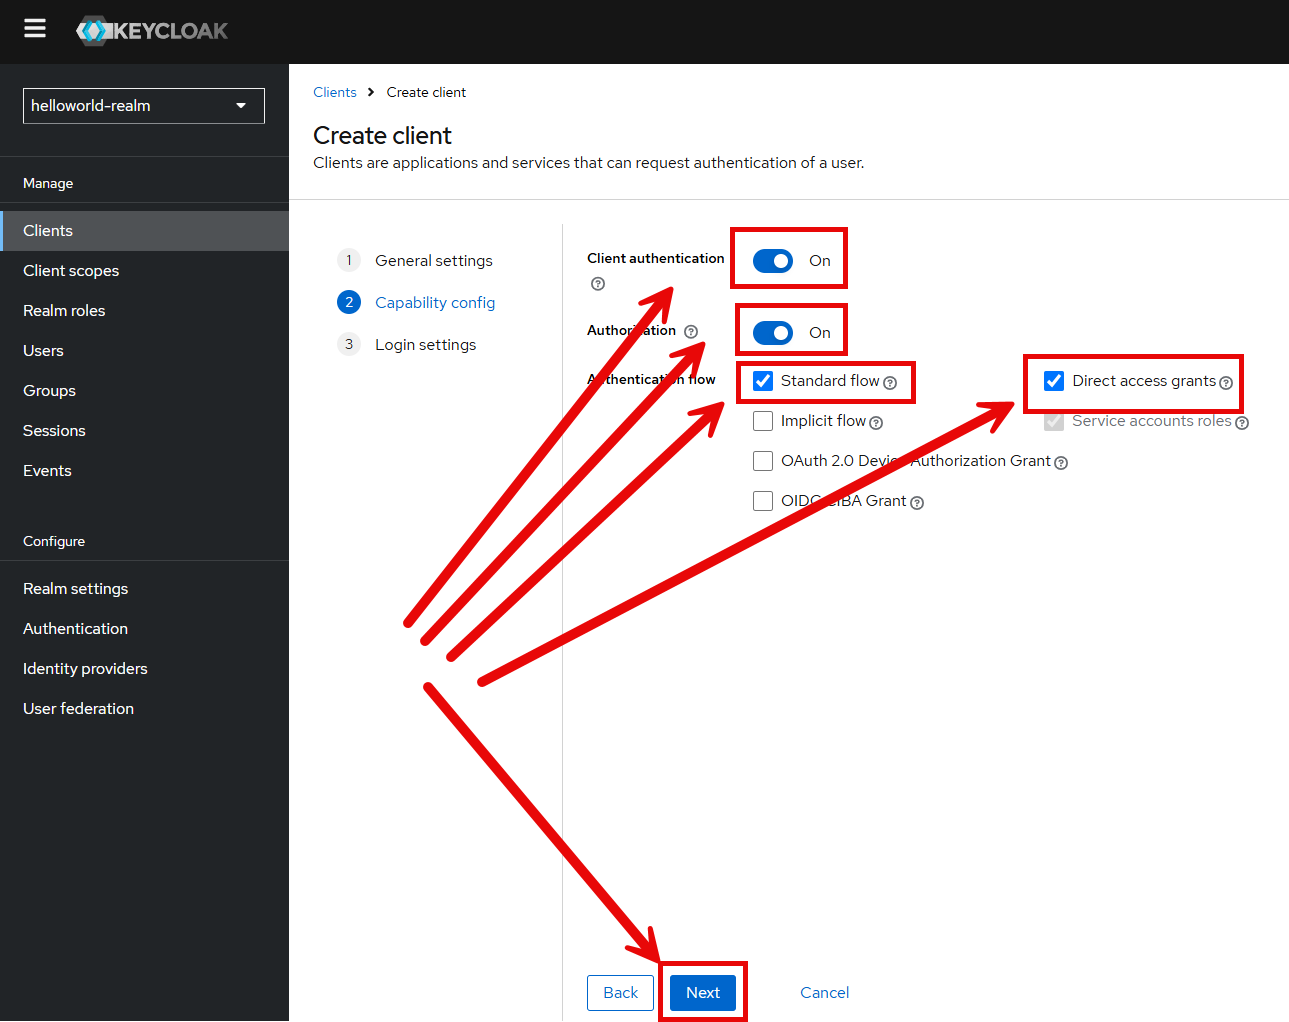
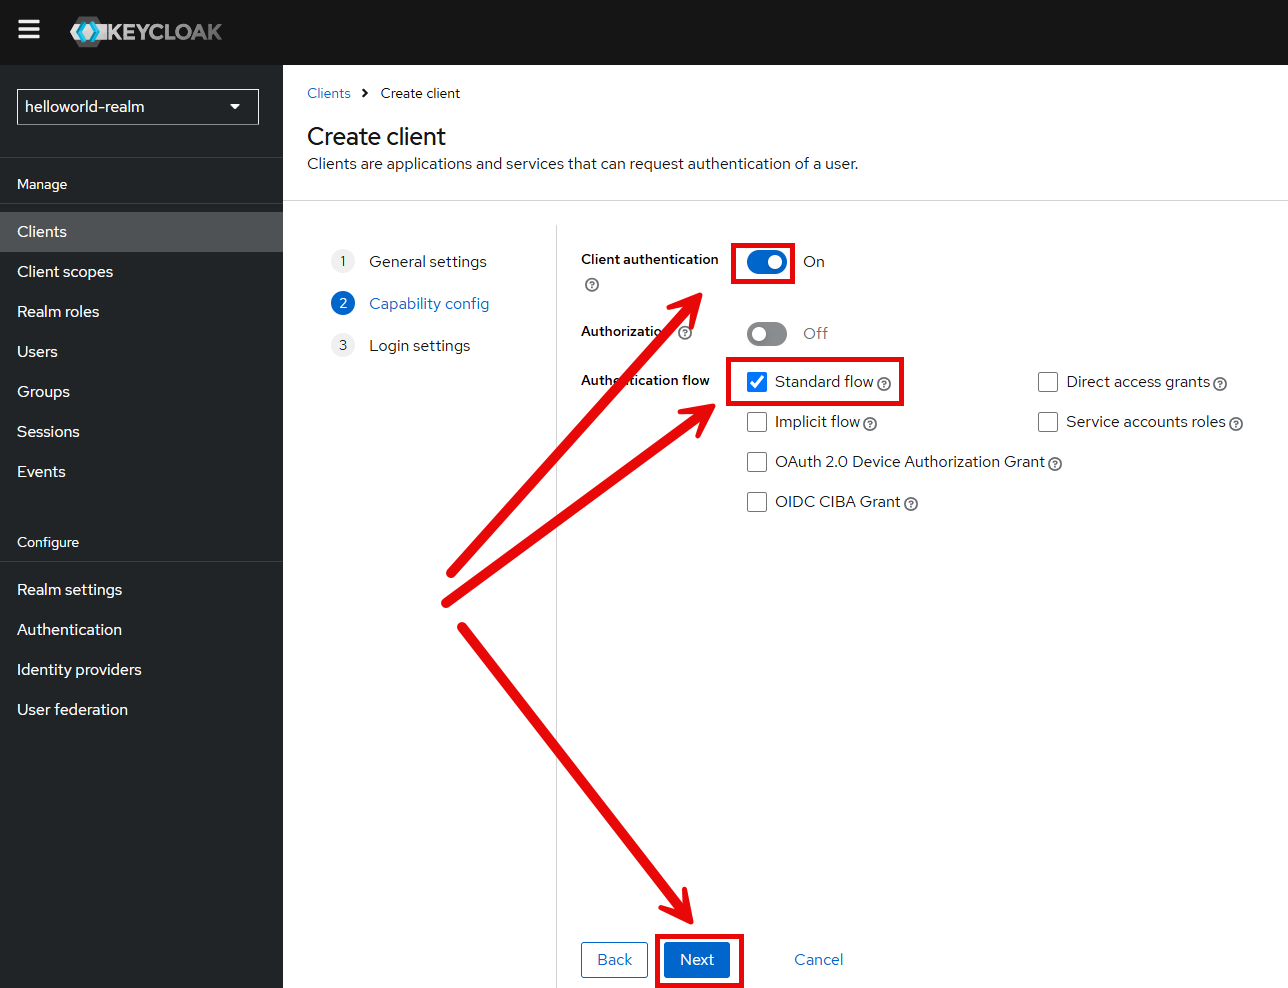
Update Keycloak Configuration

diff --git a/others/security/keycloak/mvc/springboot3-mvc-thymeleaf-security-client-authorizationcode-keycloak-users/README.md b/others/security/keycloak/mvc/springboot3-mvc-thymeleaf-security-client-authorizationcode-keycloak-users/README.md
@@ -170,3 +170,5 @@ KEYCLOAK CONFIGURATION
 ![My Image](readme-images/config-13.png)
 
 ![My Image](readme-images/config-14.png)
+
+![My Image](readme-images/config-15.png)
